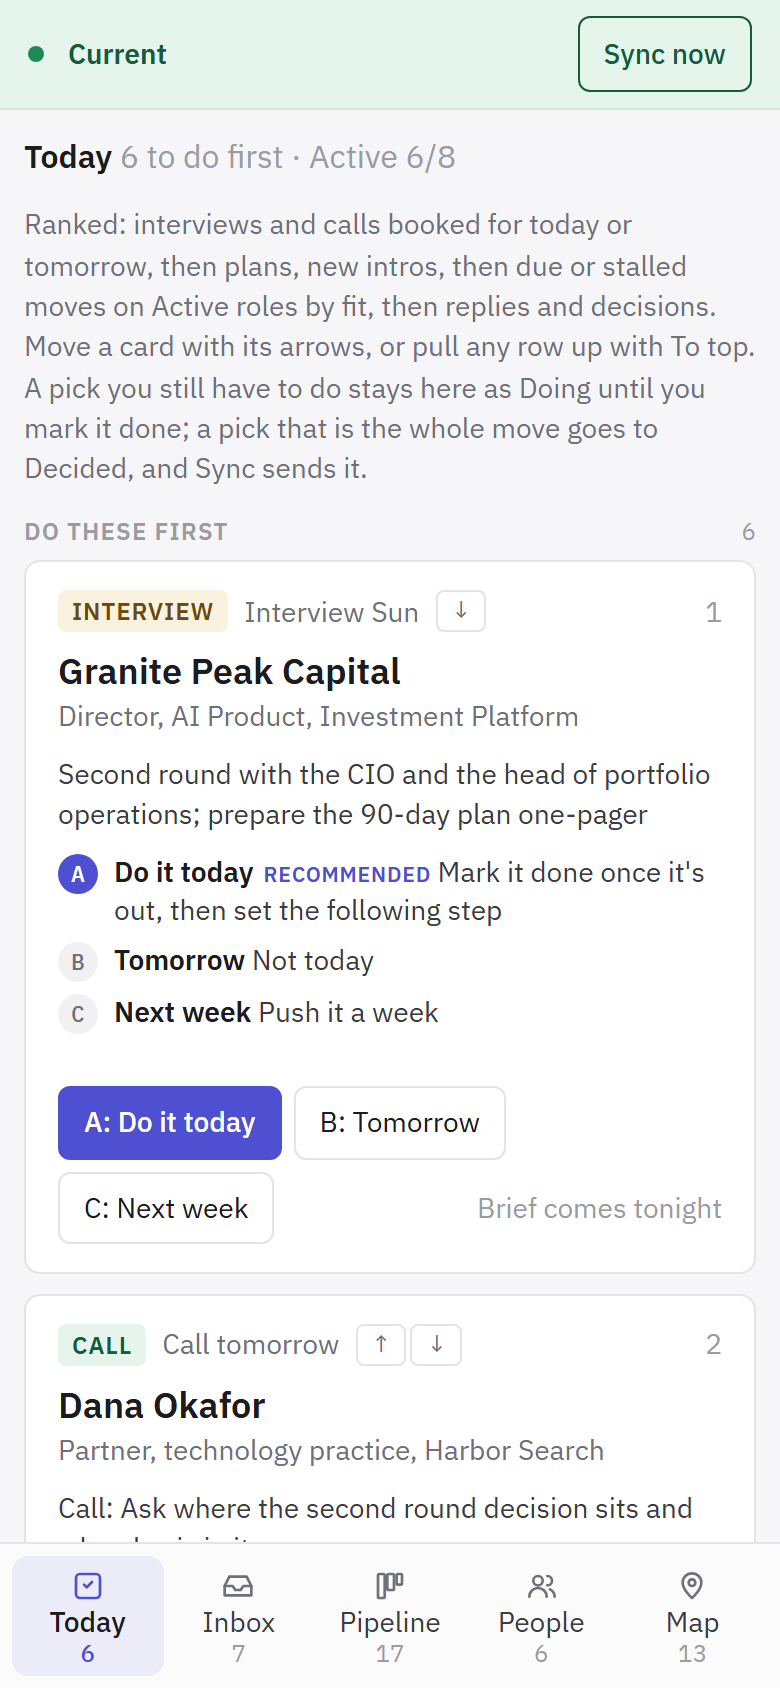
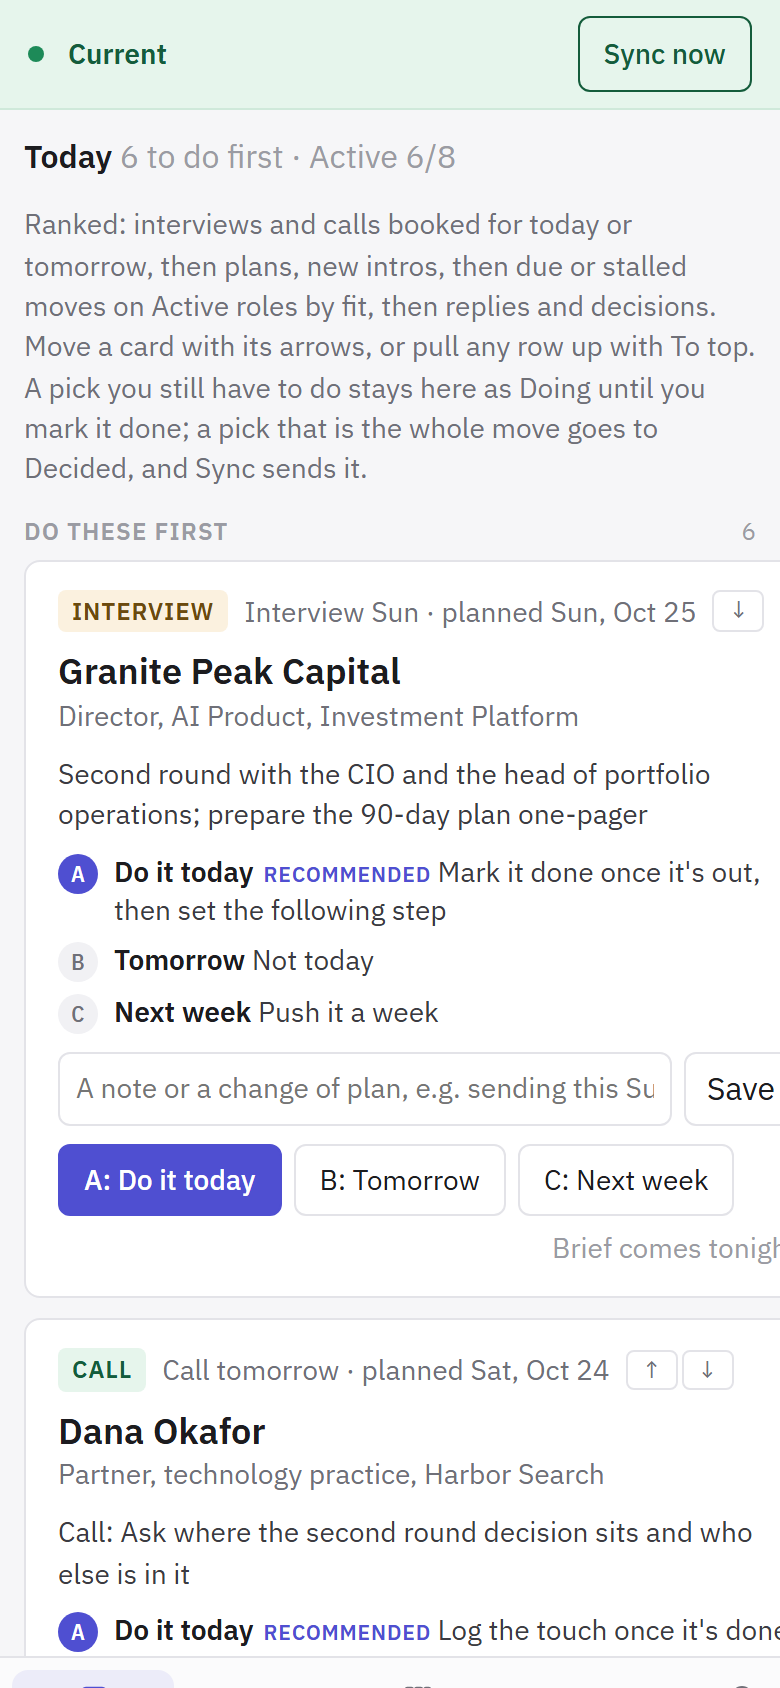
Sync from the engine: Today: a ranked card keeps its place when its note moves the day (#22)

diff --git a/web/index.html b/web/index.html
@@ -491,6 +491,8 @@ button.td-undo{font-size:11.5px;padding:1px 7px;color:var(--amber-text);border-c
 .tc-o{display:grid;grid-template-columns:22px minmax(0,1fr);gap:6px;font-size:var(--fs-sm);line-height:1.35;color:var(--text2)}.tc-o b{font-weight:600;color:var(--text)}
 .tc-l{font-family:"IBM Plex Mono",Consolas,monospace;font-weight:500;width:20px;height:20px;border-radius:50%;display:grid;place-items:center;font-size:11.5px;background:var(--chip);color:var(--muted)}
 .tc-o.rec .tc-l{background:var(--accent);color:#fff}.tc-rec{font-size:10.5px;font-weight:600;color:var(--accent);text-transform:uppercase;letter-spacing:.04em;margin-left:5px}
+.tc-note{display:flex;gap:6px}.tc-note input{flex:1;min-width:0;font:inherit;font-size:var(--fs-sm);padding:5px 8px;border:1px solid var(--border);border-radius:6px;background:var(--surface);color:var(--text)}
+.tc-note-v{font-size:var(--fs-sm);color:var(--text2);background:var(--surface2);border-radius:6px;padding:5px 8px}.tc-note-v span{color:var(--faint)}
 .tc-btns{align-items:center}.tc-more{margin-left:auto;font-size:var(--fs-sm);font-weight:500}
 .tc textarea,.bf textarea{width:100%;box-sizing:border-box;font:inherit;font-size:var(--fs-sm);padding:6px 8px;border:1px solid var(--border);border-radius:6px;background:var(--surface);color:var(--text)}
 .bf{max-width:780px;margin:0 auto;padding:16px 0;display:flex;flex-direction:column;gap:8px}
@@ -1551,11 +1553,36 @@ function todayCard(r,n,last){const b=briefOf(r),key=rKey(r),k=esc(key);const os=
   const doing=dm?`<div class="tc-doing"><b>${plan?"Waiting on Claude":"Doing"}: ${esc((dm.choice?dm.choice+", ":"")+(dm.label||""))}</b><span>picked ${esc(fmtDate(dm.picked_at.slice(0,10)))}</span></div>
    <div class="td-btns tc-btns">${plan?`<span class="hint">Claude starts on the drafts within two minutes of Sync; the card clears when they are ready</span><button data-tfin="${k}">Mark done</button>`
      :`<button class="go" data-tfin="${k}">${b&&b.draft||r.i&&r.i.kind==="person"?"Done: I sent it":"Done"}</button>${b?`<a class="btnlink" href="#brief/${k}">Open brief</a>`:""}<button data-tunpick="${k}">Change pick</button>`}</div>`:"";
-  return`<div class="td-card tc${dm?" doing":""}"><div class="tc-top"><span class="tc-k k-${esc(tag.toLowerCase())}">${esc(tag)}</span><span class="tc-why">${esc(rk!=null?"Your order · "+(r.why||""):(r.why||""))}</span>${mv}<span class="tc-n">${n}</span></div>
+  return`<div class="td-card tc${dm?" doing":""}"><div class="tc-top"><span class="tc-k k-${esc(tag.toLowerCase())}">${esc(tag)}</span><span class="tc-why">${esc((rk!=null?"Your order · "+(r.why||""):(r.why||""))+(r.i&&r.i.date>todayIso()?" · planned "+fmtDate(r.i.date):""))}</span>${mv}<span class="tc-n">${n}</span></div>
    <a class="tc-t" href="${esc(cardHref(r))}"><b>${esc(who)}</b>${sub?`<span>${esc(sub)}</span>`:""}</a><div class="tc-q">${esc(q)}</div>
    <div class="tc-opts">${os.map(o=>`<div class="tc-o${o.rec?" rec":""}${dm&&dm.choice===o.letter?" picked":""}"><span class="tc-l">${o.letter}</span><div><b>${esc(o.label)}</b>${o.rec?'<span class="tc-rec">Recommended</span>':""}${dm&&dm.choice===o.letter?'<span class="tc-rec">Your pick</span>':""} ${esc(o.why)}</div></div>`).join("")}</div>
    ${r.i&&r.i.kind==="person"&&doneOpen===r.i.id&&!r.i.p?netDoneForm(r.i.c).replace('<form class="doneform"','<form class="doneform" data-tstage="'+k+'"').replace("Save to Notion","Stage it"):""}
-   ${doing||other||`<div class="td-btns tc-btns">${os.map(o=>`<button${o.rec?' class="go"':""} data-topt="${k}" data-letter="${o.letter}">${o.letter}: ${esc(o.label)}</button>`).join("")}${r.j&&(r.j.plan.options||[]).length?`<button data-topt="${k}" data-letter="other">Something else</button>`:""}${b?"":`<span class="tc-nb">Brief comes tonight</span>`}</div>`}</div>`;}
+   ${r.i?noteForm(key):""}${doing||other||`<div class="td-btns tc-btns">${os.map(o=>`<button${o.rec?' class="go"':""} data-topt="${k}" data-letter="${o.letter}">${o.letter}: ${esc(o.label)}</button>`).join("")}${r.j&&(r.j.plan.options||[]).length?`<button data-topt="${k}" data-letter="other">Something else</button>`:""}${b?"":`<span class="tc-nb">${CFG.demo||r.j?"Brief comes tonight":"Opening it starts the draft"}</span>`}</div>`}</div>`;}
+/* A note on the card in his words (the owner, 2026-10-23: "freeform text just to say that I'm going to send this on Monday
+   ... We could just do that in real time in the actual app"). Saved to today_marks at once; a day in it (today,
+   tomorrow, a weekday, next week, in N days, 10/27, Oct 27) moves the item's date in Notion straight away, no Sync,
+   a card he ranked or picked keeps its place and shows the day; any other leaves the top until then. */
+const MONTHS=["jan","feb","mar","apr","may","jun","jul","aug","sep","oct","nov","dec"];
+const DOWS={sun:0,mon:1,tue:2,tues:2,wed:3,thu:4,thur:4,thurs:4,fri:5,sat:6};
+function parseWhen(t){t=(t||"").toLowerCase();const now=new Date(),y=now.getFullYear(),iso=(yy,mm,dd)=>{let d=new Date(yy,mm,dd,12);if(d.toLocaleDateString("en-CA")<todayIso())d=new Date(yy+1,mm,dd,12);return d.toLocaleDateString("en-CA");};
+  /* The last day named wins: "too late Friday, sending Sunday" means Sunday. */
+  const rules=[[/\b(today|tonight)\b/g,()=>todayIso()],[/\btomorrow\b/g,()=>plusDays(1)],[/\bin (\d{1,2}) days?\b/g,m=>plusDays(+m[1])],[/\bnext week\b/g,()=>plusDays(7)],
+    [/\b(sun|mon|tue|tues|wed|thu|thur|thurs|fri|sat)(day|nesday|sday|urday)?\b/g,m=>plusDays((DOWS[m[1]]-now.getDay()+7)%7||7)],[/\bweekend\b/g,()=>plusDays((6-now.getDay()+7)%7||7)],
+    [/\b(\d{1,2})\/(\d{1,2})\b/g,m=>iso(y,+m[1]-1,+m[2])],[/\b(jan|feb|mar|apr|may|jun|jul|aug|sep|oct|nov|dec)[a-z]*\.? (\d{1,2})\b/g,m=>iso(y,MONTHS.indexOf(m[1]),+m[2])]];
+  let best=null;rules.forEach(([re,fn])=>{for(const m of t.matchAll(re))if(!best||m.index>=best[0])best=[m.index,fn(m)];});
+  return best?best[1]:null;}
+const noteForm=key=>{const m=MARKS[key]||{},k=esc(key);
+  return`${m.note?`<div class="tc-note-v"><b>Your note:</b> ${esc(m.note)}${m.note_at?` <span>${esc(fmtDate(m.note_at.slice(0,10)))}</span>`:""}</div>`:""}<form class="tc-note" data-tnote="${k}"><input name="note" placeholder="${m.note?"Change the note":"A note or a change of plan, e.g. sending this Sunday"}" autocomplete="off"><button type="submit">Save</button></form>`;};
+async function saveNote(key,text){text=text.trim();if(!text)return;const r=rOfKey(key);const i=r&&r.i;if(!i)return;const d=parseWhen(text);
+  await markPut([{key,note:text,note_at:nowIso(),title:(MARKS[key]||{}).title||cardTitle(r)}]);
+  if(!d||d===i.date){toast(d?"Note saved; the date already matches":"Note saved. No day in it, so the date stays");return;}
+  let ok=false;
+  if(i.kind==="person")ok=!!await netWrite({action:"update",id:i.id,fields:{next_date:d}});
+  else if(i.kind==="role")ok=!!await oppWrite({action:"update",id:i.id,fields:{next_date:d}});
+  else if(i.kind==="task")ok=!!await taskWrite({action:"update",id:i.id,fields:{plan_day:d}});
+  if(!ok){toast("Note saved, but the date did not reach Notion");return;}
+  const p=PEND[key];if(p&&p.date!==undefined){delete p.date;if(!Object.keys(p).filter(x=>x!=="text"&&x!=="err").length)unstage(key);else savePend();}
+  toast(`Planned for ${fmtDate(d)} in Notion`);if(await loadBoard())paint();else paint();}
 /* What an option's button does (docs/brief.md lists the acts). A new pick replaces an earlier one: no Undo first
    (the owner, 2026-10-23: "I basically can't reopen the brief unless I press undo"). On a plan card it records the pick. */
 function todayOpt(key,letter){const r=rOfKey(key);if(!r)return;
@@ -1622,7 +1649,7 @@ function briefFor(key){if(BRIEFS[key])return BRIEFS[key];const r=rOfKey(key);if(
   const lines=[c&&c.hook?["Why now",c.hook]:null,c&&(c.role||c.company)?["Who",[c.role,c.company].filter(Boolean).join(", ")]:null,c&&c.last_date?["Last touch",fmtDate(c.last_date)+(c.last_note?": "+c.last_note:"")]:null,c&&c.notes?["Notes",c.notes]:null,i.j?["Role",i.j.company+": "+i.j.title]:null].filter(Boolean);
   return{title:i.who,date:todayIso(),question:i.text,action:i.text,options:defaultOpts(r),synth:true,
     draft:{channel:c?(c.next_type==="Email"?"Email":"LinkedIn message"):"",to:c&&c.linkedin||"",text:""},
-    html:`<p class="hint">No overnight brief for this one yet, so this is what the board knows. Write the note here, or start it in Claude.</p>${lines.map(([l,v])=>`<h3>${esc(l)}</h3><p>${esc(v)}</p>`).join("")}`};}
+    html:`<p class="hint">${CFG.demo?"No brief for this one yet, so this is what the board knows. Write the note here, or start it in Claude.":(draftAsked(key)?`Claude is drafting this brief now (asked ${esc(fmtClock(MARKS[key].draft_asked))}). The draft lands here in a few minutes; you can start writing meanwhile.`:"No brief for this one yet; asking Claude to draft it now.")+" Until it lands, this is what the board knows."}</p>${lines.map(([l,v])=>`<h3>${esc(l)}</h3><p>${esc(v)}</p>`).join("")}`};}
 function draftText(key){try{const v=localStorage.getItem(DRAFT_KEY(key));if(v!==null)return v;}catch(e){}return((briefFor(key)||{}).draft||{}).text||"";}
 function saveDraft(key,v){try{if(v===(((briefFor(key)||{}).draft||{}).text||""))localStorage.removeItem(DRAFT_KEY(key));else localStorage.setItem(DRAFT_KEY(key),v);}catch(e){}}
 const curDraft=key=>{const t=view.querySelector(`textarea[data-bdraft="${CSS.escape(key)}"]`);return t?t.value:draftText(key);};
@@ -1637,7 +1664,13 @@ function gmailUrl(key){const d=(briefFor(key)||{}).draft||{};const to=/@/.test(d
 function briefCtx(key){const [kind,id]=tdSplit(key);
   if(kind==="person"){const c=CONTACTS.find(x=>x.id===id)||{};return{c,links:[["People page","#people/"+id,0],c.url?["Notion",c.url,1]:null,c.linkedin?["LinkedIn",c.linkedin,1]:null].filter(Boolean)};}
   const j=byId[id]||{};const o=OPPS[id]||{};return{j,links:[["Role page","#job/"+id,0],j.url?["Posting",j.url,1]:null,o.url?["Notion",o.url,1]:null].filter(Boolean)};}
-function viewBrief(key){const b=briefFor(key);
+/* A missing brief is drafted on demand (the owner, 2026-10-23: "The message should be drafted... Then I'll rework it, but
+   give it a shot."): opening it stamps draft_asked on its today_marks row, and the board-sync service on the mini
+   (engine/draft_now.py) starts Claude on it; the brief arrives over board_meta realtime. Asked again after 45 minutes. */
+const draftAsked=key=>{const t=MARKS[key]&&MARKS[key].draft_asked;return t&&Date.now()-Date.parse(t)<45*60e3;};
+const fmtClock=t=>new Date(t).toLocaleTimeString([],{hour:"numeric",minute:"2-digit"});
+function askDraft(key,r){if(CFG.demo||draftAsked(key))return;setTimeout(()=>markPut([{key,draft_asked:nowIso(),title:(MARKS[key]||{}).title||(r?cardTitle(r):key)}]),0);}
+function viewBrief(key){const b=briefFor(key);if(b&&b.synth)askDraft(key,rOfKey(key));
   if(!b)return`<div class="emptybig"><b>No brief for this one yet</b><span>The overnight run writes one for each item at the top of Today.</span><a href="#today">Back to Today</a></div>`;
   const r=rOfKey(key);const cur=b.synth?b:r&&briefOf(r);const d=b.draft;const ctx=briefCtx(key);const k=esc(key);
   const os=r&&cur?optsOf(r):b.options;const picked=pickOf(key);const st=r&&(r.j?PEND[key]:r.i&&r.i.p);
@@ -1651,7 +1684,7 @@ function viewBrief(key){const b=briefFor(key);
    ${os.length?`<div class="tc-opts">${os.map(o=>`<div class="tc-o${o.rec?" rec":""}${picked===o.letter?" picked":""}"><span class="tc-l">${o.letter}</span><div><b>${esc(o.label)}</b>${o.rec?'<span class="tc-rec">Recommended</span>':""}${picked===o.letter?'<span class="tc-rec">Your pick</span>':""} ${esc(o.why)}</div></div>`).join("")}</div>
      ${r&&cur&&r.j?`<div class="td-btns">${os.map(o=>`<button${(picked?picked===o.letter:o.rec)?' class="go"':""} data-topt="${k}" data-letter="${o.letter}">${o.letter}: ${esc(o.label)}</button>`).join("")}</div>`:""}`:""}
    ${d?`<div class="bf-draft"><div class="nw-lab">The draft${d.channel?" · "+esc(d.channel):""}${d.to&&!/^https?:/.test(d.to)?" · "+esc(d.to):""}</div>
-     <textarea class="bf-text" data-bdraft="${k}" rows="10" placeholder="Nothing drafted yet. Write it here, or start it in Claude.">${esc(draftText(key))}</textarea>
+     <textarea class="bf-text" data-bdraft="${k}" rows="10" placeholder="${b.synth&&!CFG.demo&&draftAsked(key)?"Claude is drafting this now. Or write it here yourself.":"Nothing drafted yet. Write it here, or start it in Claude."}">${esc(draftText(key))}</textarea>
      <div class="td-btns"><button data-bcopy="${k}">Copy text</button>${li?`<a class="btnlink" href="${esc(li)}" target="_blank" rel="noopener" data-bcopyopen="${k}">Draft in LinkedIn</a>`:""}<a class="btnlink" href="https://mail.google.com/" target="_blank" rel="noopener" data-bgmail="${k}">Draft in Gmail</a><a class="btnlink" href="https://claude.ai/new" target="_blank" rel="noopener" data-bclaude="${k}">Rework in Claude</a><span class="hint">Edits stay on this device.</span></div></div>`:""}
    <div class="bf-body">${b.html||""}</div></div></div>`;}
 async function briefCopy(key,quiet){const t=curDraft(key);
@@ -1773,7 +1806,7 @@ function todayParts(){const k3=plusDays(3);
   const seen=new Set(ranked.map(rKey));
   const extra=Object.keys(MARKS).filter(k=>!seen.has(k)&&(rankOf(k)!=null||doingOf(k))).map(k=>{const [kind,id]=tdSplit(k);
     if(kind==="plan"){const j=byId[id];return j&&j.plan&&!isClosed(j)?{j,why:doingOf(k)?"You answered the plan":"Your order"}:null;}
-    const i=all.find(x=>x.key===k);return i&&!i.done?{i,why:doingOf(k)?"You picked it":"On your list"}:null;}).filter(Boolean);
+    const i=all.find(x=>x.key===k);return i&&!i.done?{i,why:doingOf(k)?"You picked it":"On your list"}:null;}).filter(Boolean); /* a later day keeps its place (the owner, 2026-10-23: "They're still the highest-ranking things"); the card shows the day */
   const pool=[...ranked,...extra],rk=r=>rankOf(rKey(r));
   const ord=[...pool.filter(r=>rk(r)!=null).sort((a,b)=>rk(a)-rk(b)),...pool.filter(r=>rk(r)==null&&doingOf(rKey(r))),...pool.filter(r=>rk(r)==null&&!doingOf(rKey(r)))];
   const held=ord.filter(r=>!isStaged(r)&&(rk(r)!=null||doingOf(rKey(r)))).length;
@@ -1782,11 +1815,11 @@ function todayParts(){const k3=plusDays(3);
   const notDec=l=>l.filter(i=>!decided.has(i.id)||i.kind!=="role");
   return{items,top,decided:stagedR,decs:left(decs),iv:left(iv),plans:plans.filter(j=>!topk.has("plan:"+j.id)),
     now:notDec(left(mine.filter(i=>(i.b==="overdue"||i.b==="today")&&!(i.kind==="role"&&planned.has(i.id))))),nostep:notDec(left(mine.filter(i=>i.b==="nostep"))),pnow:left([...pCall,...pIntro,...pDue]),soon:left(mine.filter(i=>!["overdue","today","nostep"].includes(i.b))),
-    people:left(chg),theirs:notDec(rest.filter(i=>live(i)&&i.ball==="them")),
+    people:left(chg),moved:left(all.filter(i=>!i.done&&i.date>todayIso()&&MARKS[i.key]&&MARKS[i.key].note&&!MARKS[i.key].done_at)),theirs:notDec(rest.filter(i=>live(i)&&i.ball==="them")),
     bench:notDec(rest.filter(i=>i.kind==="role"&&i.lane==="bench")),paused:rest.filter(i=>i.kind==="role"&&i.lane==="paused")};}
 const todayCount=()=>todayParts().top.length;
 function viewToday(arg){checkMarks();const t=todayParts();
-  const all=[...t.top.filter(r=>r.i).map(r=>r.i),...t.iv,...t.now,...t.pnow,...t.nostep,...t.soon,...t.people,...t.theirs,...t.bench,...t.paused];
+  const all=[...t.top.filter(r=>r.i).map(r=>r.i),...t.iv,...t.now,...t.pnow,...t.nostep,...t.soon,...t.moved,...t.people,...t.theirs,...t.bench,...t.paused];
   /* No side pane on Today (the owner, 2026-10-23: it read as a stuck legacy window): a row opens in place. */
   const sel=all.find(i=>i.key===arg)||null;
   const on=i=>!!(sel&&i.key===sel.key);
@@ -1797,9 +1830,9 @@ function viewToday(arg){checkMarks();const t=todayParts();
   const first=t.top.length?`<div class="td-grp td-top"><div class="td-gh">Do these first<span>${t.top.length}</span></div><div class="tc-grid">${t.top.map((r,n,a)=>todayCard(r,n+1,n===a.length-1)).join("")}</div></div>`:"";
   const restPlans=t.plans.length?`<div class="td-grp"><div class="td-gh">Plans to answer<span>${t.plans.length}</span></div><div class="hint">Nothing is drafted until you answer. Approve as is, or say what to change; Sync sends it.</div>${t.plans.map(planCard).join("")}</div>`:"";
   const inner=sec("dec","Decisions",t.decs)+sec("iv","Interviews, next 3 days",t.iv)+restPlans+sec("now","Also due · "+fmtDate(todayIso()),[...t.now,...t.pnow])+sec("ns","Active, no next step yet",t.nostep)
-    +sec("soon","Coming up",t.soon)+sec("ppl","Relationships",t.people)+sec("them","Waiting on them",t.theirs)
+    +sec("soon","Coming up",t.soon)+sec("moved","Moved by your note",t.moved,false,"Back in the ranking on the day you named.")+sec("ppl","Relationships",t.people)+sec("them","Waiting on them",t.theirs)
     +sec("bench","Bench",t.bench,true,"Quick research runs on these too. Promote one when Active has room.")+sec("paused","Paused",t.paused,true);
-  const n=t.decs.length+t.iv.length+t.plans.length+t.now.length+t.nostep.length+t.soon.length+t.people.length+t.theirs.length+t.bench.length+t.paused.length;
+  const n=t.decs.length+t.iv.length+t.plans.length+t.now.length+t.nostep.length+t.soon.length+t.moved.length+t.people.length+t.theirs.length+t.bench.length+t.paused.length;
   const shut=!tdFold.has("rest");
   const more=n?`<div class="td-grp"><button class="td-gh${shut?" fold":""}" data-tfold="rest">Everything else<span>${n}</span></button>${shut?"":inner}</div>`:"";
   /* Completed (the owner, 2026-10-23: "a way to go look at ones that you've checked off"): the last seven days of marks. */
@@ -2543,6 +2576,7 @@ view.addEventListener("focusout",e=>{const t=e.target;const m=t.matches("input[d
   const c=CONTACTS.find(x=>x.id===t.dataset[m[0]]);if(!c||(c[m[1]]||"")===t.value.trim())return;
   netWrite({action:"update",id:c.id,fields:{[m[1]]:t.value.trim()}}).then(r=>{if(r)render();});});
 view.addEventListener("submit",async e=>{const f=e.target;
+  if(f.dataset.tnote){e.preventDefault();const b=f.querySelector("button");b.disabled=true;await saveNote(f.dataset.tnote,f.note.value);b.disabled=false;return;}
   if(f.id!=="addPerson"&&!f.dataset.doneform)return;e.preventDefault();const b=f.querySelector('button[type="submit"]');b.disabled=true;
   const fields=Object.fromEntries(new FormData(f).entries());
   if(f.dataset.tstage){const c=CONTACTS.find(x=>x.id===f.dataset.doneform);stage(f.dataset.tstage,{done:true,form:{...fields,date:todayIso()},text:c?c.next_action||c.name:""});doneOpen=null;toast("Touch staged. Sync sends it to Notion.");render();return;}

diff --git a/engine/draft_now.py b/engine/draft_now.py
@@ -12,13 +12,19 @@ pursue-followup playbook for those roles alone: the drafts his answer calls for,
 board push. The run itself sets the role's next step to "Review drafts" with the ball on the owner, which clears the
 card's "Waiting on Claude" on the board. One run at a time; a run older than RUN_MINUTES no longer blocks the next.
 Nothing is sent: the playbook's guardrails hold (Gmail drafts only).
+
+The same kick drafts a missing brief on demand (the owner, 2026-10-23, on Anna's card: "there's no message drafted... The
+message should be drafted. Then I'll rework it, but give it a shot."). A brief came only from the 01:30 run, so a touch
+dated during the day opened an empty draft box. Now opening such an item on the board stamps `draft_asked` on its
+today_marks row, and when no plan run is owed kick() starts `claude -p` to write those briefs, draft included, and push
+them. A key is asked once per stamp (.draft-now/briefs-asked.json); the page stamps again after RUN_MINUTES.
 """
 import json
 import os
 import shutil
 import subprocess
 import sys
-from datetime import datetime, timezone
+from datetime import datetime, timedelta, timezone
 from pathlib import Path
 from zoneinfo import ZoneInfo
 
@@ -73,10 +79,76 @@ def prompt(rows, today):
     )
 
 
+def brief_prompt(asks, today):
+    names = "; ".join(f"{a['key']} ({a.get('title') or 'no title'})" for a in asks)
+    return (
+        "Read Tools/pursue-followup-prompt.md, and docs/brief.md in the job-search-agent folder. the owner just opened these "
+        f"items on the board's Today page and they have no brief, so the brief and its draft are owed now: {names}. Do "
+        "step 1 (sync). Then in the job-search-agent folder run `py engine/notion_sync.py` and `py engine/briefs.py owed "
+        "--cap 100 --out briefs-owed.json`, and do step 4b for these keys only. A key not in that list still gets its "
+        "brief, from the same sources, with `**For:**` set to the item's text as the page shows it (for a person, "
+        "`briefs._person_text` of the Notion Network row). Every brief carries a full first draft in the owner's voice in its "
+        "## Draft block; never leave the draft empty, he will rework it. Skip every other step and row. Then step 8's "
+        f"commit, with the message \"Briefs on demand {today}: {', '.join(a.get('title') or a['key'] for a in asks)}\", "
+        "and then in the job-search-agent folder run `py engine/push_board.py` so the briefs reach the board. Nothing is "
+        "ever sent. Your working directory is Personal-OS; the prompt was written on Windows, so read any "
+        "C:\\Users\\matth\\ path as your home folder with forward slashes. `py` works here."
+    )
+
+
+def launch(cfg, p, text, keys, now):
+    f = state_file(p)
+    f.parent.mkdir(parents=True, exist_ok=True)
+    logs = Path.home() / "Library" / "Logs" / "fleet"
+    log = (logs if logs.exists() else f.parent) / "draft-now.log"
+    with open(log, "a", encoding="utf-8") as out:
+        out.write(f"\n=== {now.isoformat(timespec='seconds')} {', '.join(keys)}\n")
+        out.flush()
+        proc = subprocess.Popen([claude_bin(cfg), "-p", text, "--permission-mode", "auto",
+                                 "--permission-prompts", "none"], cwd=str(p.personal_os), stdout=out,
+                                stderr=subprocess.STDOUT, stdin=subprocess.DEVNULL, start_new_session=True)
+    f.write_text(json.dumps({"pid": proc.pid, "jobs": keys, "started": now.isoformat(timespec="seconds"),
+                             "log": str(log)}, indent=1) + "\n", encoding="utf-8")
+    return proc.pid
+
+
+def kick_briefs(cfg, p):
+    """Items opened on the board with no brief: start one run that writes them. Returns a line, or None."""
+    now = datetime.now(timezone.utc)
+    since = (now - timedelta(days=1)).isoformat(timespec="seconds")
+    asks = sb.select("today_marks", {"select": "key,title,draft_asked", "draft_asked": f"gte.{since}",
+                                     "done_at": "is.null"}, cfg=cfg)
+    f = state_file(p).parent / "briefs-asked.json"
+    tried = json.loads(f.read_text(encoding="utf-8")) if f.exists() else {}
+    asks = [a for a in asks if tried.get(a["key"]) != a["draft_asked"]]
+    if not asks:
+        return None
+    meta = sb.select("board_meta", {"select": "payload", "key": "eq.briefs"}, cfg=cfg)
+    have = (meta[0].get("payload") if meta else None) or {}
+    asks = [a for a in asks if a["key"] not in have]
+    if not asks:
+        return None
+    subprocess.run(["git", "pull", "--rebase", "--autostash", "origin", "master"], cwd=str(p.personal_os),
+                   capture_output=True, text=True, timeout=300)
+    today = now.astimezone(ET).date().isoformat()
+    pid = launch(cfg, p, brief_prompt(asks, today), [a["key"] for a in asks], now)
+    tried.update({a["key"]: a["draft_asked"] for a in asks})
+    f.write_text(json.dumps(tried, indent=1) + "\n", encoding="utf-8")
+    return f"drafting briefs now for {', '.join(a.get('title') or a['key'] for a in asks)} (pid {pid})"
+
+
 def kick(cfg, p):
-    """Fold new plan answers; start one drafting run if any answered role wants drafts. Returns a line, or None."""
+    """Fold new plan answers and draft for them; else draft any brief asked for on the board. A line, or None."""
     if busy(p):
         return None
+    line = kick_plans(cfg, p)
+    if line and line.startswith("drafting now"):
+        return line
+    return kick_briefs(cfg, p) or line
+
+
+def kick_plans(cfg, p):
+    """Fold new plan answers; start one drafting run if any answered role wants drafts. Returns a line, or None."""
     if not sb.select("plan_inputs", {"select": "id", "folded_at": "is.null", "limit": "1"}, cfg=cfg):
         return None
     subprocess.run(["git", "pull", "--rebase", "--autostash", "origin", "master"], cwd=str(p.personal_os),
@@ -100,19 +172,8 @@ def kick(cfg, p):
     clock = now.astimezone(ET).strftime("%I:%M %p").lstrip("0")
     for r in rows:
         set_next(cfg, r["id"], f"Claude is drafting from your plan answer (started {clock})", today, "claude")
-    f = state_file(p)
-    f.parent.mkdir(parents=True, exist_ok=True)
-    logs = Path.home() / "Library" / "Logs" / "fleet"
-    log = (logs if logs.exists() else f.parent) / "draft-now.log"
-    with open(log, "a", encoding="utf-8") as out:
-        out.write(f"\n=== {now.isoformat(timespec='seconds')} {', '.join(r['id'] for r in rows)}\n")
-        out.flush()
-        proc = subprocess.Popen([claude_bin(cfg), "-p", prompt(rows, today), "--permission-mode", "auto",
-                                 "--permission-prompts", "none"], cwd=str(p.personal_os), stdout=out,
-                                stderr=subprocess.STDOUT, stdin=subprocess.DEVNULL, start_new_session=True)
-    f.write_text(json.dumps({"pid": proc.pid, "jobs": [r["id"] for r in rows], "started": now.isoformat(timespec="seconds"),
-                             "log": str(log)}, indent=1) + "\n", encoding="utf-8")
-    return f"drafting now for {', '.join(r['company'] for r in rows)} (pid {proc.pid})"
+    pid = launch(cfg, p, prompt(rows, today), [r["id"] for r in rows], now)
+    return f"drafting now for {', '.join(r['company'] for r in rows)} (pid {pid})"
 
 
 def main():
